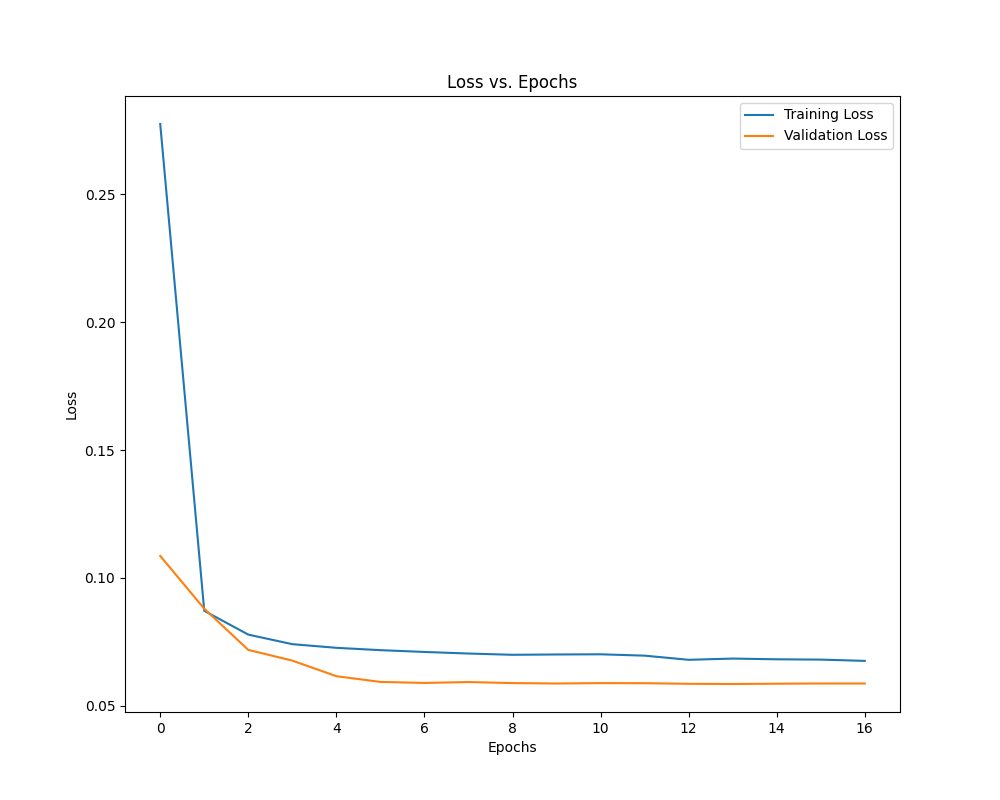
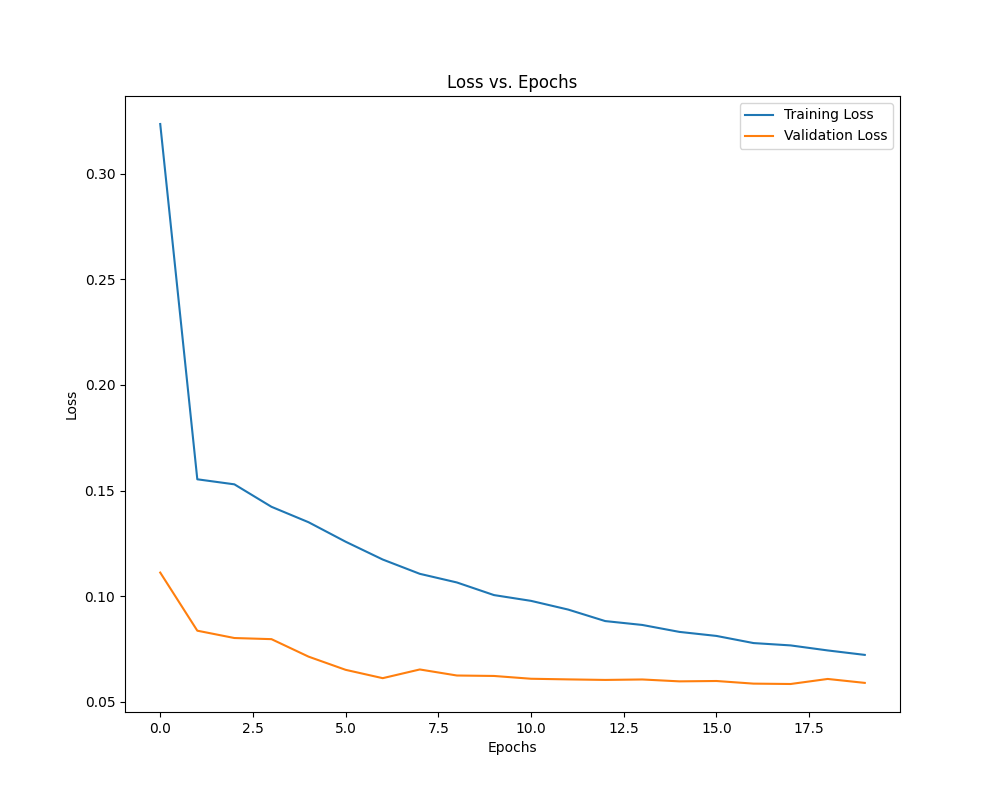
another

diff --git a/scripts/main.py b/scripts/main.py
@@ -4,52 +4,45 @@ import numpy as np
 import tensorflow as tf
 from PIL import Image
 from sklearn.model_selection import train_test_split
-from tensorflow.keras.preprocessing.image import img_to_array
+from tensorflow.keras.preprocessing.image import ImageDataGenerator, img_to_array
 from tensorflow.keras.models import Sequential
 from tensorflow.keras.layers import Conv2D, MaxPooling2D, Flatten, Dense, Dropout, InputLayer
 from tensorflow.keras.callbacks import EarlyStopping
 import logging
-import zipfile
 import time
 import matplotlib.pyplot as plt
 import seaborn as sns
 from sklearn.metrics import jaccard_score, confusion_matrix
+import subprocess
+import ray
+from ray import tune
+from ray.tune.schedulers import ASHAScheduler, AsyncHyperBandScheduler
+from tensorflow.keras.optimizers import Adam
 
 # Configuration
-DATA_DIR = 'data/raw/Corel-5k/Corel-5k/'
-PROCESSED_DIR = 'data/processed/'
-OUTPUTS_DIR = 'outputs/'
-FIGURES_DIR = 'figures/'
-
-# Hyperparameters configuration
-BATCH_SIZE = 16
-EPOCHS = 20
-LEARNING_RATE = 0.001
-DROPOUT_RATE = 0.4
-NUM_FILTERS = [32, 64]
-KERNEL_SIZE = 3
-POOL_SIZE = 2
-DENSE_UNITS = 64
+DATA_DIR = '/root/.ipython/multilabel_cnn_proj_v2/data/raw/Corel-5k/Corel-5k/'
+PROCESSED_DIR = '/root/.ipython/multilabel_cnn_proj_v2/data/processed/'
+OUTPUTS_DIR = '/root/.ipython/multilabel_cnn_proj_v2/outputs/'
+FIGURES_DIR = '/root/.ipython/multilabel_cnn_proj_v2/figures/'
 
 # Set up logging
 logging.basicConfig(level=logging.INFO, format='%(asctime)s - %(levelname)s - %(message)s')
 
-def extract_zip(file_path, extract_to):
-    """Extracts a zip file to the specified directory."""
-    try:
-        with zipfile.ZipFile(file_path, 'r') as zip_ref:
-            zip_ref.extractall(extract_to)
-        logging.info(f"Extracted {file_path} to {extract_to}.")
-    except Exception as e:
-        logging.error(f"An error occurred while extracting {file_path}: {e}")
-        raise
-
 def load_data():
     """Loads the dataset and returns train, validation, and test data."""
     try:
+        # Define absolute paths to the JSON files and images directory
         train_json_path = os.path.join(DATA_DIR, 'train.json')
         test_json_path = os.path.join(DATA_DIR, 'test.json')
         images_dir = os.path.join(DATA_DIR, 'images')
+
+        # Check if the files exist
+        if not os.path.exists(train_json_path):
+            raise FileNotFoundError(f"Train JSON file not found: {train_json_path}")
+        if not os.path.exists(test_json_path):
+            raise FileNotFoundError(f"Test JSON file not found: {test_json_path}")
+        if not os.path.exists(images_dir):
+            raise FileNotFoundError(f"Images directory not found: {images_dir}")
 
         with open(train_json_path, 'r') as f:
             train_annotations = json.load(f)
@@ -168,28 +161,34 @@ def save_preprocessed_data(data, processed_dir):
         logging.error(f"An error occurred while saving preprocessed data: {e}")
         raise
 
-def build_model():
+def build_model(config):
     """Builds and compiles the CNN model."""
     model = Sequential()
     model.add(InputLayer(input_shape=(224, 224, 3)))
 
-    for num_filter in NUM_FILTERS:
-        model.add(Conv2D(num_filter, (KERNEL_SIZE, KERNEL_SIZE), activation='relu'))
-        model.add(MaxPooling2D(pool_size=(POOL_SIZE, POOL_SIZE)))
-        model.add(Dropout(DROPOUT_RATE))
+    for num_filter in config["NUM_FILTERS"]:
+        model.add(Conv2D(num_filter, (config["KERNEL_SIZE"], config["KERNEL_SIZE"]), activation='relu'))
+        model.add(MaxPooling2D(pool_size=(config["POOL_SIZE"], config["POOL_SIZE"])))
+        model.add(Dropout(config["DROPOUT_RATE"]))
 
     model.add(Flatten())
-    model.add(Dense(DENSE_UNITS, activation='relu'))
-    model.add(Dropout(DROPOUT_RATE))
+    model.add(Dense(config["DENSE_UNITS"], activation='relu'))
+    model.add(Dropout(config["DROPOUT_RATE"]))
     model.add(Dense(260, activation='sigmoid'))  # Sigmoid activation for multi-label classification
 
-    model.compile(optimizer=tf.keras.optimizers.Adam(learning_rate=LEARNING_RATE),
+    model.compile(optimizer=tf.keras.optimizers.Adam(learning_rate=config["LEARNING_RATE"]),
                   loss='binary_crossentropy',  # Use binary cross-entropy loss
                   metrics=['accuracy'])
 
     return model
 
-def train_model(data, use_parallel_strategy):
+def data_generator(images, labels, batch_size):
+    """Generates batches of data for training."""
+    datagen = ImageDataGenerator()
+    generator = datagen.flow(images, labels, batch_size=batch_size)
+    return generator
+
+def train_model(config, data, use_parallel_strategy):
     """Trains the CNN model with the given configuration and data."""
     try:
         train_images = data['train']['images']
@@ -197,20 +196,24 @@ def train_model(data, use_parallel_strategy):
         val_images = data['val']['images']
         val_labels = data['val']['labels']
 
+        train_gen = data_generator(train_images, train_labels, config["BATCH_SIZE"])
+        val_gen = data_generator(val_images, val_labels, config["BATCH_SIZE"])
+
         if use_parallel_strategy:
             strategy = tf.distribute.MirroredStrategy()
             with strategy.scope():
-                model = build_model()
+                model = build_model(config)
         else:
-            model = build_model()
+            model = build_model(config)
 
         early_stopping = EarlyStopping(monitor='val_loss', patience=5, restore_best_weights=True)
 
         start_time = time.time()
-        history = model.fit(train_images, train_labels,
-                            validation_data=(val_images, val_labels),
-                            epochs=EPOCHS,
-                            batch_size=BATCH_SIZE,
+        history = model.fit(train_gen,
+                            validation_data=val_gen,
+                            epochs=config["EPOCHS"],
+                            steps_per_epoch=len(train_images) // config["BATCH_SIZE"],
+                            validation_steps=len(val_images) // config["BATCH_SIZE"],
                             callbacks=[early_stopping])
         training_time = time.time() - start_time
 
@@ -275,10 +278,28 @@ def plot_loss_vs_epochs(history, filename):
     plt.savefig(filename)
     plt.close()
 
+def monitor_gpu_usage():
+    """Monitors GPU usage using nvidia-smi."""
+    try:
+        result = subprocess.run(['nvidia-smi'], stdout=subprocess.PIPE)
+        logging.info(result.stdout.decode('utf-8'))
+    except Exception as e:
+        logging.error(f"An error occurred while monitoring GPU usage: {e}")
+        raise
+
+def train_with_tune(config):
+    """Wrapper function to train the model with hyperparameter tuning."""
+    data = load_data()
+    processed_data = preprocess_data(data['train'], data['val'], data['test'])
+    model, history, _ = train_model(config, processed_data, use_parallel_strategy=False)
+    
+    # Report metrics to Ray Tune
+    val_loss = history.history['val_loss'][-1]
+    val_accuracy = history.history['val_accuracy'][-1]
+    tune.report(val_loss=val_loss, val_accuracy=val_accuracy)
+
 def main():
     try:
-        extract_zip('/root/.ipython/multilabel_cnn_proj/data/raw/Corel-5k.zip', 'data/raw/Corel-5k/')
-        
         logging.info("Loading data...")
         data = load_data()
 
@@ -290,18 +311,38 @@ def main():
 
         logging.info("Building the model...")
 
-        # Train with parallel strategy
+        # Hyperparameter tuning with Ray Tune
+        search_space = {
+            "BATCH_SIZE": tune.choice([16, 32, 64]),
+            "EPOCHS": tune.choice([10, 20, 30]),
+            "LEARNING_RATE": tune.loguniform(1e-4, 1e-2),
+            "DROPOUT_RATE": tune.uniform(0.2, 0.5),
+            "NUM_FILTERS": tune.choice([[32, 64], [64, 128]]),
+            "KERNEL_SIZE": tune.choice([3, 5]),
+            "POOL_SIZE": tune.choice([2, 3]),
+            "DENSE_UNITS": tune.choice([64, 128])
+        }
+
+        scheduler = ASHAScheduler(metric="val_loss", mode="min")
+        analysis = tune.run(train_with_tune, config=search_space, num_samples=10, scheduler=scheduler, resources_per_trial={"cpu": 2, "gpu": 1})
+
+        best_config = analysis.get_best_config(metric="val_loss", mode="min")
+        logging.info(f"Best hyperparameters: {best_config}")
+
+        # Train with the best hyperparameters
         logging.info("Training with parallel strategy...")
-        _, history_parallel, training_time_parallel = train_model(processed_data, use_parallel_strategy=True)
+        monitor_gpu_usage()
+        model, history_parallel, training_time_parallel = train_model(best_config, processed_data, use_parallel_strategy=True)
+        monitor_gpu_usage()
         logging.info("Training time with parallel strategy: %s seconds", training_time_parallel)
 
-        # Train without parallel strategy
         logging.info("Training without parallel strategy...")
-        _, history_non_parallel, training_time_non_parallel = train_model(processed_data, use_parallel_strategy=False)
+        monitor_gpu_usage()
+        model, history_non_parallel, training_time_non_parallel = train_model(best_config, processed_data, use_parallel_strategy=False)
+        monitor_gpu_usage()
         logging.info("Training time without parallel strategy: %s seconds", training_time_non_parallel)
 
         logging.info("Evaluating the model...")
-        model, _, _ = train_model(processed_data, use_parallel_strategy=False)  # Train the final model
         performance = evaluate_model(model, processed_data['test'])
 
         logging.info("Creating figures directory if it does not exist...")

diff --git a/tests/extract_zip.py b/tests/extract_zip.py
@@ -1,0 +1,33 @@
+import os
+import zipfile
+import logging
+
+# Configuration
+ZIP_FILE_PATH = '/root/.ipython/multilabel_cnn_proj_v2/data/Corel-5k.zip'
+EXTRACT_TO_DIR = 'data/raw/Corel-5k/'
+
+# Set up logging
+logging.basicConfig(level=logging.INFO, format='%(asctime)s - %(levelname)s - %(message)s')
+
+def extract_zip(file_path, extract_to):
+    """Extracts a zip file to the specified directory."""
+    if not os.path.exists(file_path):
+        logging.error(f"Zip file does not exist: {file_path}")
+        raise FileNotFoundError(f"Zip file does not exist: {file_path}")
+    
+    if not os.path.exists(extract_to):
+        try:
+            with zipfile.ZipFile(file_path, 'r') as zip_ref:
+                zip_ref.extractall(extract_to)
+            logging.info(f"Extracted {file_path} to {extract_to}.")
+        except Exception as e:
+            logging.error(f"An error occurred while extracting {file_path}: {e}")
+            raise
+    else:
+        logging.info(f"Directory {extract_to} already exists. Skipping extraction.")
+
+if __name__ == "__main__":
+    try:
+        extract_zip(ZIP_FILE_PATH, EXTRACT_TO_DIR)
+    except Exception as e:
+        logging.error(f"An error occurred in the extraction process: {e}")

diff --git a/tests/test_gpu.py b/tests/test_gpu.py
@@ -1,0 +1,4 @@
+import tensorflow as tf
+
+print("Num GPUs Available: ", len(tf.config.list_physical_devices('GPU')))
+print("Available GPUs: ", tf.config.list_physical_devices('GPU'))
